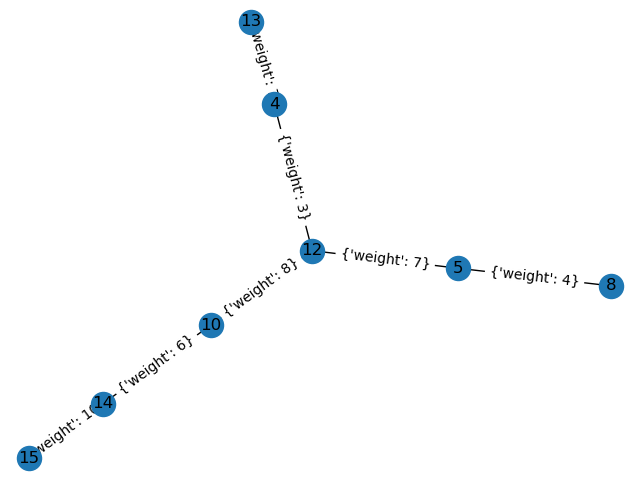
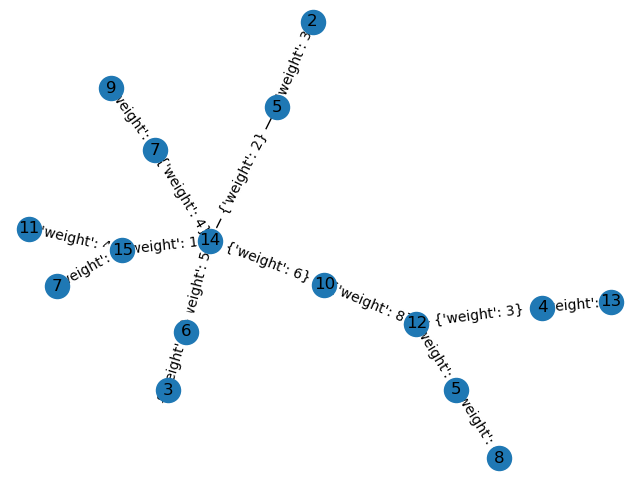
update

diff --git a/dynammic_programming_edit.py b/dynammic_programming_edit.py
@@ -700,7 +700,7 @@ def testOriginaltoCluster(n, c, k):
 def testCluster(G, k):
     edge_data = str(G.edges.data())
     node_data = str(G.nodes.data())
-    #makeMatrix(G, G.number_of_nodes())
+    makeMatrix(G, G.number_of_nodes())
    # f = open("make_matrix.txt", "a")
    # f.write("edge data:" + edge_data + "\n")
    # f.write("node data: " + node_data + "\n")
@@ -794,16 +794,16 @@ G_DP2.nodes[7]['weight']=15
 def main():
     #G = testOriginaltoCluster(10, 0.7, 3)
    # G = college_Message()
-    #G = createClusterGraph(6)
-    testCluster(G_DP2, 3)
+    G = createClusterGraph(50)
+    testCluster(G, 3)
 
-    pos = nx.spring_layout(G_DP2)
+    pos = nx.spring_layout(G_DP)
 
-    nx.draw(G_DP2, pos)
-    node_labels = nx.get_node_attributes(G_DP2,'weight')
-    nx.draw_networkx_labels(G_DP2, pos, labels = node_labels)
-    edge_labels = nx.get_edge_attributes(G_DP2,'weight')
-    nx.draw_networkx_edge_labels(G_DP2, pos, labels = edge_labels)
+    nx.draw(G_DP, pos)
+    node_labels = nx.get_node_attributes(G_DP,'weight')
+    nx.draw_networkx_labels(G_DP, pos, labels = node_labels)
+    edge_labels = nx.get_edge_attributes(G_DP,'weight')
+    nx.draw_networkx_edge_labels(G_DP, pos, labels = edge_labels)
     plt.savefig('this.png')
     plt.show()
     #fig1 = plt.figure(2)
